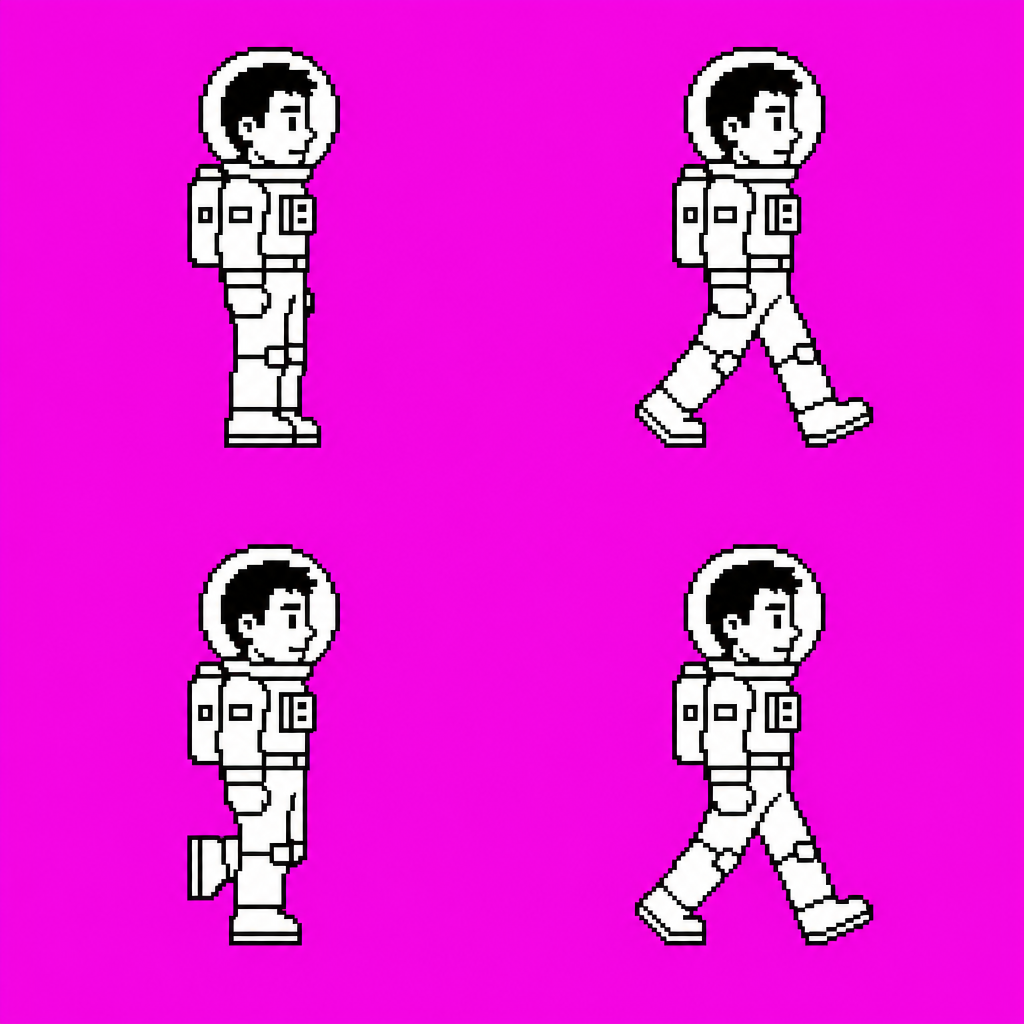
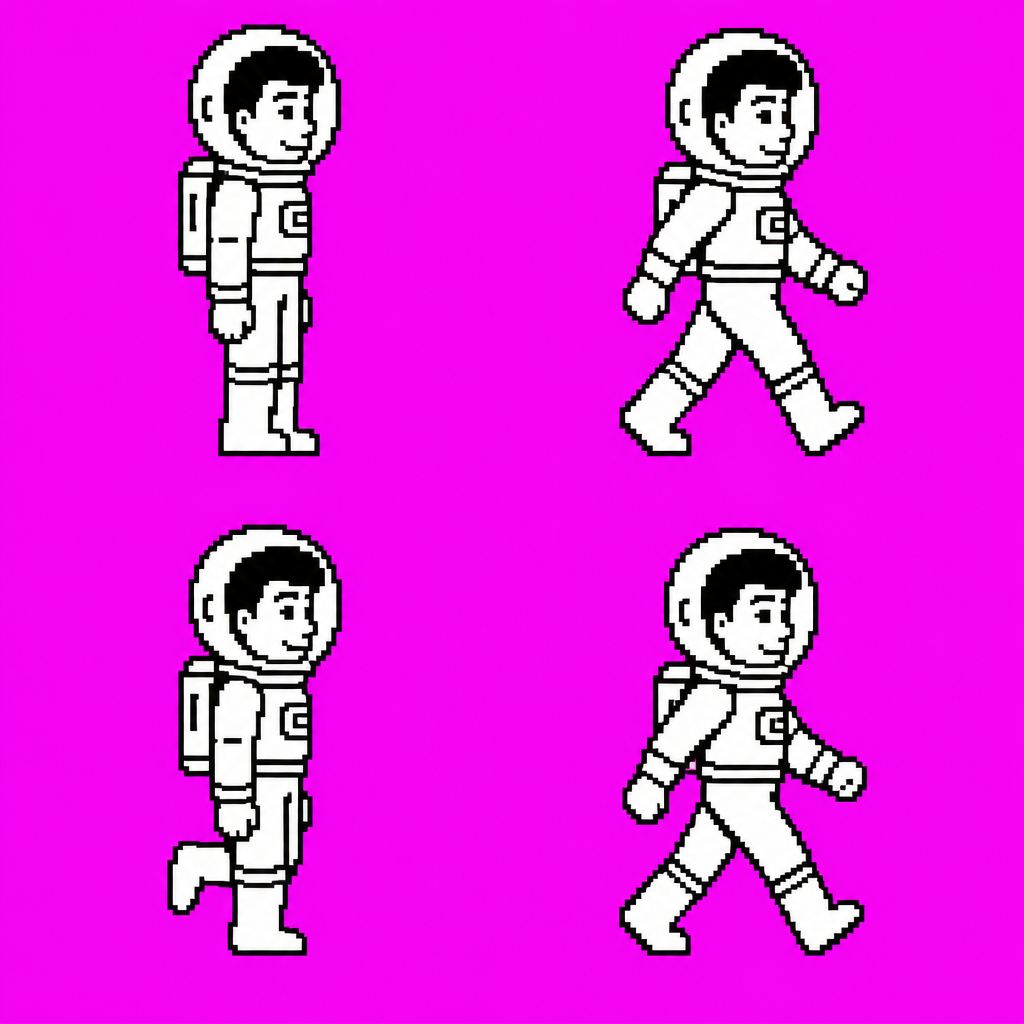
Hero walk: arm swing frames + dark-detail preservation in converter
New sheet swings arms between contact and passing poses; converter adds
a min-filtered dark pass so 1-2px face details (mouth, eyes) survive
the downscale.

diff --git a/tools/ai_convert.py b/tools/ai_convert.py
@@ -19,7 +19,7 @@ Requires Pillow.  Run: python3 tools/ai_convert.py
 
 import os
 
-from PIL import Image
+from PIL import Image, ImageFilter
 
 ROOT = os.path.dirname(os.path.dirname(os.path.abspath(__file__)))
 RAW = os.path.join(ROOT, "tools", "ai_raw")
@@ -58,8 +58,11 @@ def extract_sprite(cell, target_h):
     cwd, chg = x1 - x0 + 1, y1 - y0 + 1
     ph = target_h
     pw = max(1, round(cwd * ph / chg))
-    crop = cell.crop((x0, y0, x1 + 1, y1 + 1)).convert("L") \
-        .resize((pw, ph), Image.LANCZOS)
+    src = cell.crop((x0, y0, x1 + 1, y1 + 1)).convert("L")
+    crop = src.resize((pw, ph), Image.LANCZOS)
+    # min-filtered copy keeps 1-2px dark details (mouth, eyes) alive
+    # through the heavy downscale
+    dark = src.filter(ImageFilter.MinFilter(5)).resize((pw, ph), Image.LANCZOS)
     m = Image.new("L", (cwd, chg), 0)
     mp = m.load()
     for y in range(chg):
@@ -68,6 +71,7 @@ def extract_sprite(cell, target_h):
                 mp[x, y] = 255
     mm = m.resize((pw, ph), Image.LANCZOS).load()
     cp = crop.load()
+    dp = dark.load()
     mask = [[mm[x, y] > 127 for x in range(pw)] for y in range(ph)]
     spr = Image.new("RGBA", (pw + 2, ph + 2), (0, 0, 0, 0))
     sp = spr.load()
@@ -78,8 +82,9 @@ def extract_sprite(cell, target_h):
             edge = any(not (0 <= x + dx < pw and 0 <= y + dy < ph
                             and mask[y + dy][x + dx])
                        for dx, dy in ((1, 0), (-1, 0), (0, 1), (0, -1)))
+            black = cp[x, y] < BLACK or (cp[x, y] < 170 and dp[x, y] < 25)
             sp[x + 1, y + 1] = (0, 0, 0, 255) \
-                if (edge or cp[x, y] < BLACK) else (255, 255, 255, 255)
+                if (edge or black) else (255, 255, 255, 255)
     # 1px white halo so characters pop against dark backdrops
     pw2, ph2 = pw + 2, ph + 2
     halo = []
